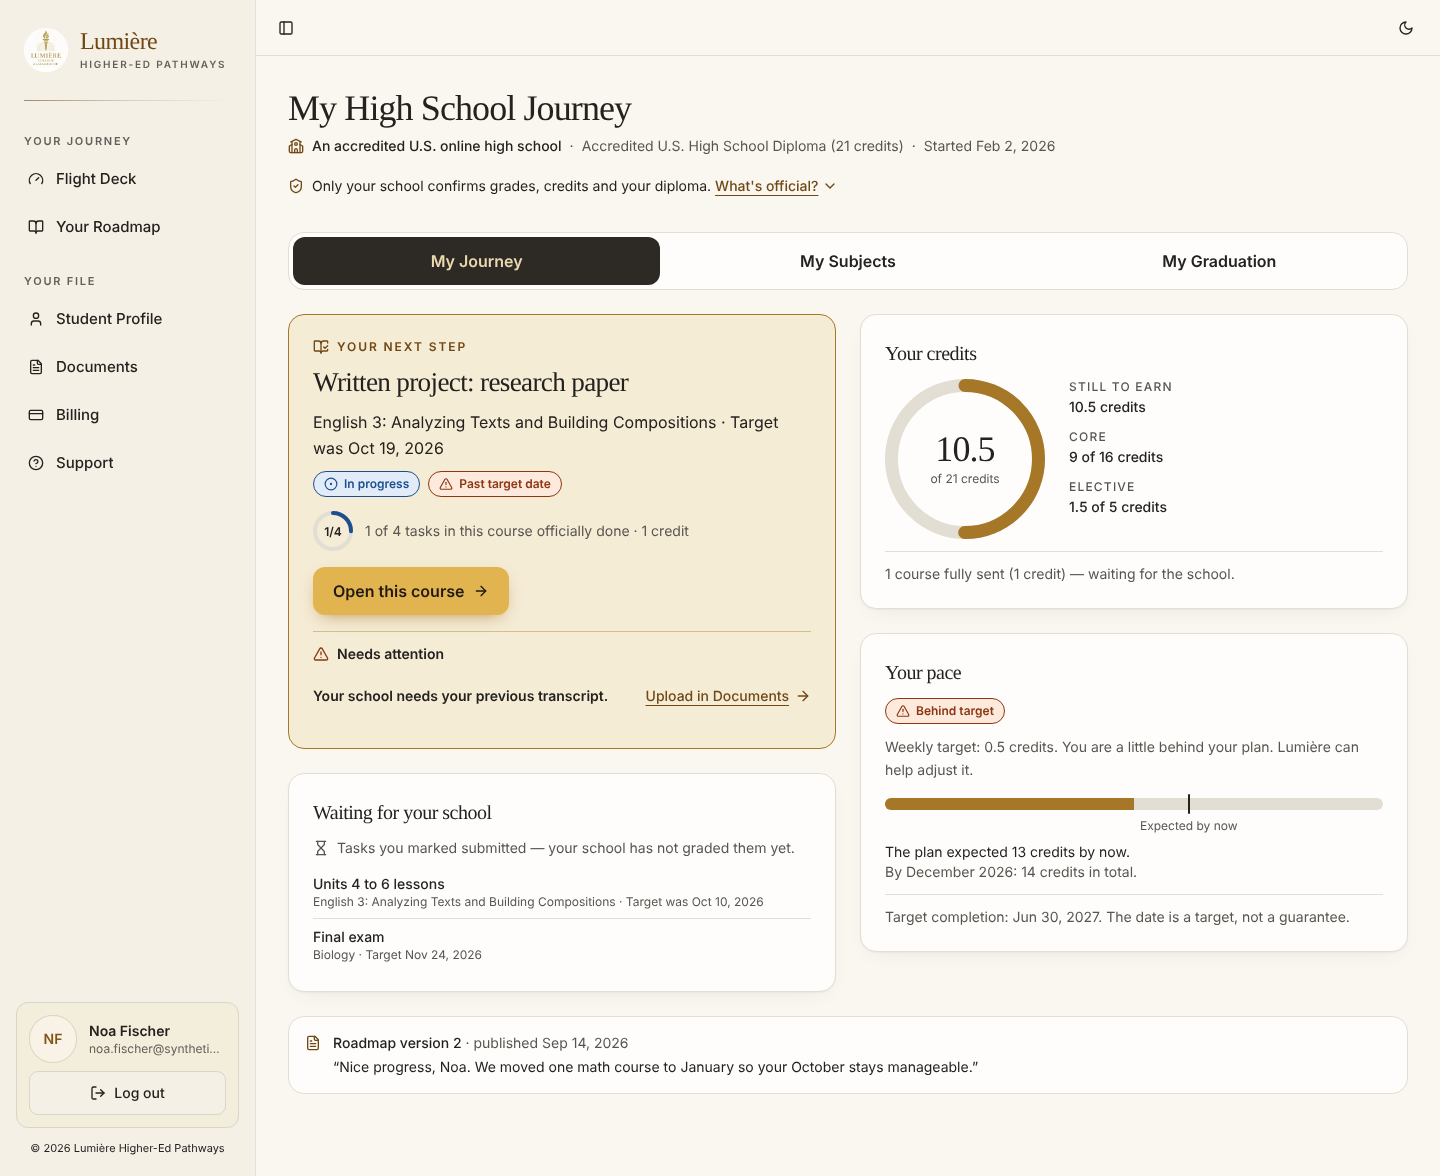
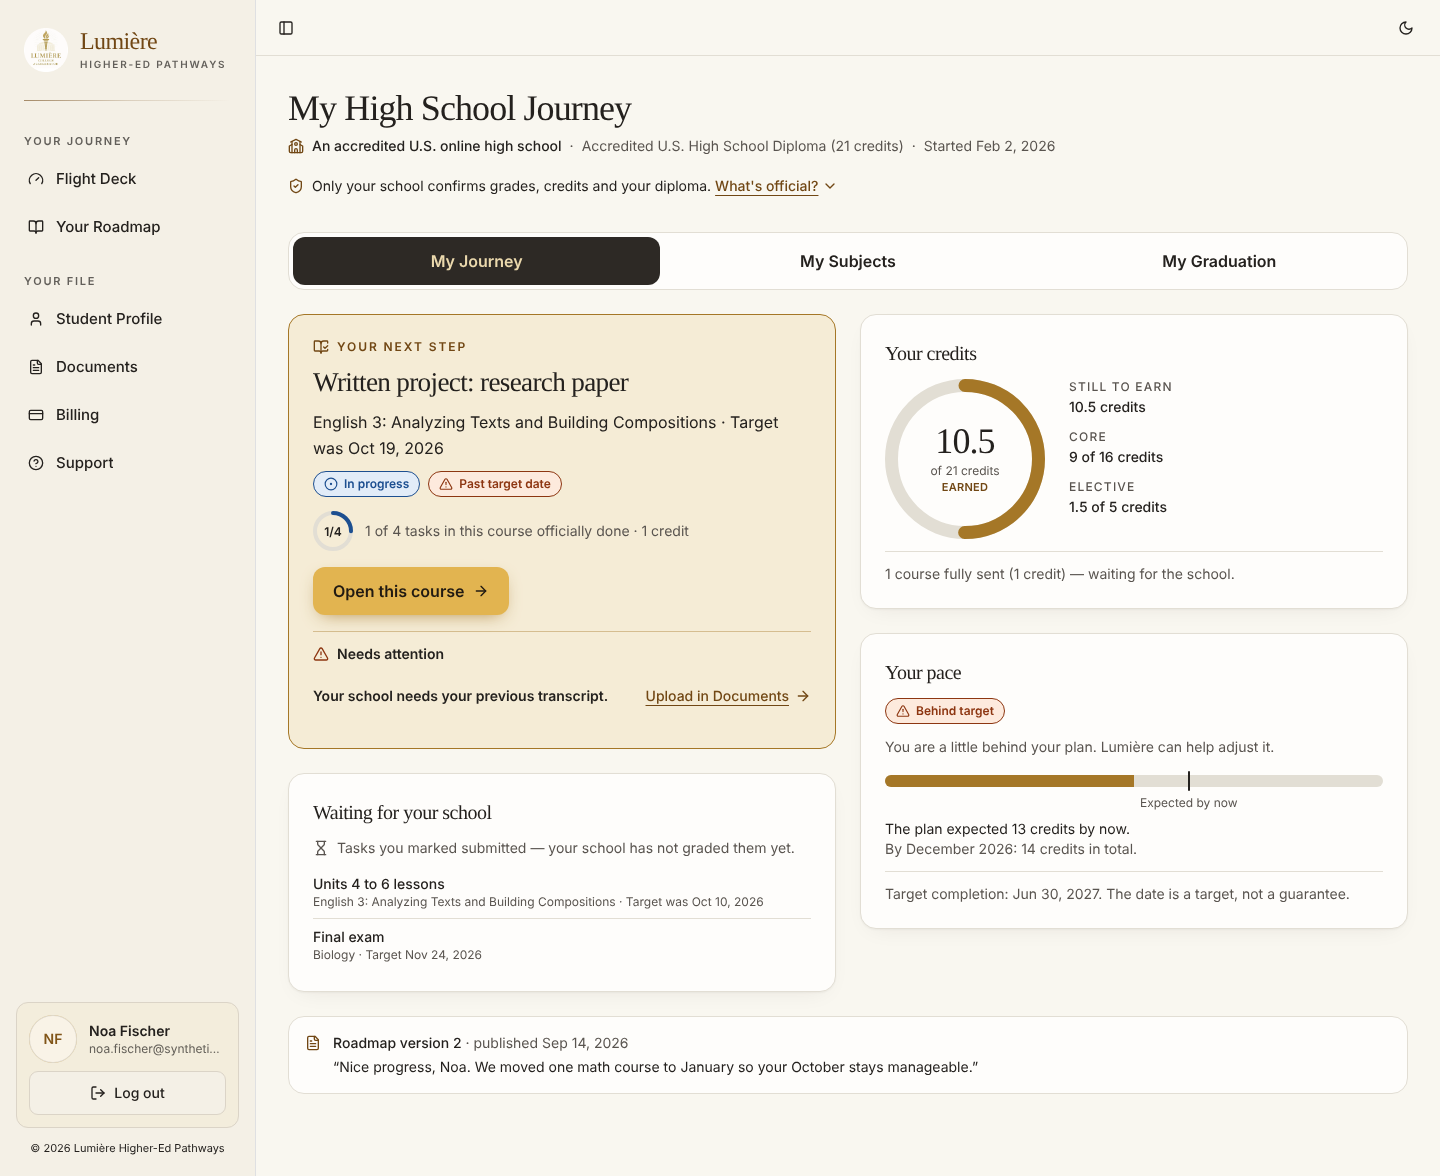
S11: one pace measure per card (no weekly figure beside milestones); credit ring centre labelled 'earned'
Claude-Session: https://claude.ai/code/session_014FFW8Qd3d2g8onA7BymxK8

Changed region(s): [[0.5938, 0.6122, 0.9688, 0.7959], [0.6562, 0.3673, 0.6875, 0.4286]]

diff --git a/tests/s11-hs-presentation.test.ts b/tests/s11-hs-presentation.test.ts
@@ -160,6 +160,12 @@ describe("S11 pace and target wording", () => {
     expect(targetDateLine({ ...HS_MID_WAY, enrollment: { ...HS_MID_WAY.enrollment, targetCompletionDate: null } }, formatShortDate)).toMatch(/Lumière will set/);
     expect(targetDateLine(HS_AWAITING_REVIEW, formatShortDate)).toMatch(/All required credits are official/);
   });
+  it("shows one pace measure: no weekly figure next to milestones", () => {
+    const withMilestones = paceView({ weeklyTargetHalfUnits: 1, expectedByNowHalfUnits: 26, status: "behind", nextMilestone: { month: "2026-12", cumulativeHalfUnits: 28 } });
+    expect(withMilestones.detail).not.toMatch(/Weekly target/);
+    const weeklyOnly = paceView({ weeklyTargetHalfUnits: 1, expectedByNowHalfUnits: null, status: "on_track", nextMilestone: null });
+    expect(weeklyOnly.detail).toMatch(/Weekly target: 0.5 credits/);
+  });
   it("date helpers", () => {
     expect(daysUntil("2026-10-28", "2026-10-26")).toBe(2);
     expect(dueLabel("2026-10-19", HS_TODAY, formatShortDate)).toBe("Target was Oct 19, 2026");

diff --git a/client/src/pages/high-school-presentation.ts b/client/src/pages/high-school-presentation.ts
@@ -319,7 +319,10 @@ export interface PaceView {
 }
 
 export function paceView(pace: StudentHighSchoolView["pace"]): PaceView {
-  const weekly = pace.weeklyTargetHalfUnits !== null ? `Weekly target: ${creditsLabel(pace.weeklyTargetHalfUnits)}. ` : "";
+  // One pace measure only: the status is computed from the monthly milestones, so a weekly figure
+  // is shown only when the plan has no milestones (two measures can disagree on one card).
+  const usesMilestones = pace.expectedByNowHalfUnits !== null || pace.nextMilestone !== null;
+  const weekly = !usesMilestones && pace.weeklyTargetHalfUnits !== null ? `Weekly target: ${creditsLabel(pace.weeklyTargetHalfUnits)}. ` : "";
   switch (pace.status) {
     case "on_track":
       return { key: "progress", label: "On track", detail: `${weekly}You are keeping up with your plan.` };

diff --git a/client/src/components/high-school/hs-ui.tsx b/client/src/components/high-school/hs-ui.tsx
@@ -86,6 +86,7 @@ export function CreditRing({
       <div className="absolute inset-0 flex flex-col items-center justify-center text-center" aria-hidden="true">
         <span className="font-serif text-4xl leading-none tracking-tight text-student-ink">{formatHalfUnits(earned)}</span>
         <span className="mt-1 text-xs text-student-muted">of {formatHalfUnits(required)} {required === 2 ? "credit" : "credits"}</span>
+        <span className="text-[11px] font-semibold uppercase tracking-wide text-student-gold-ink">earned</span>
       </div>
     </div>
   );
